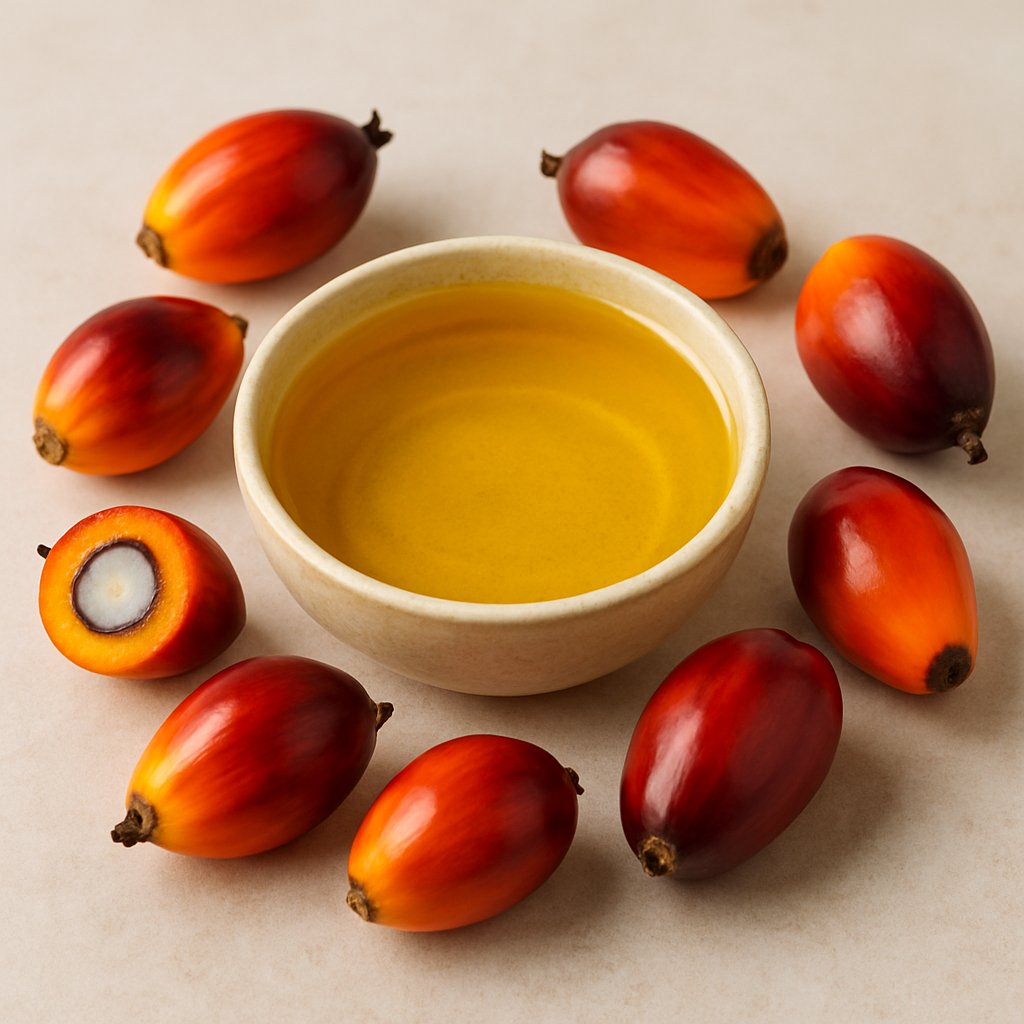
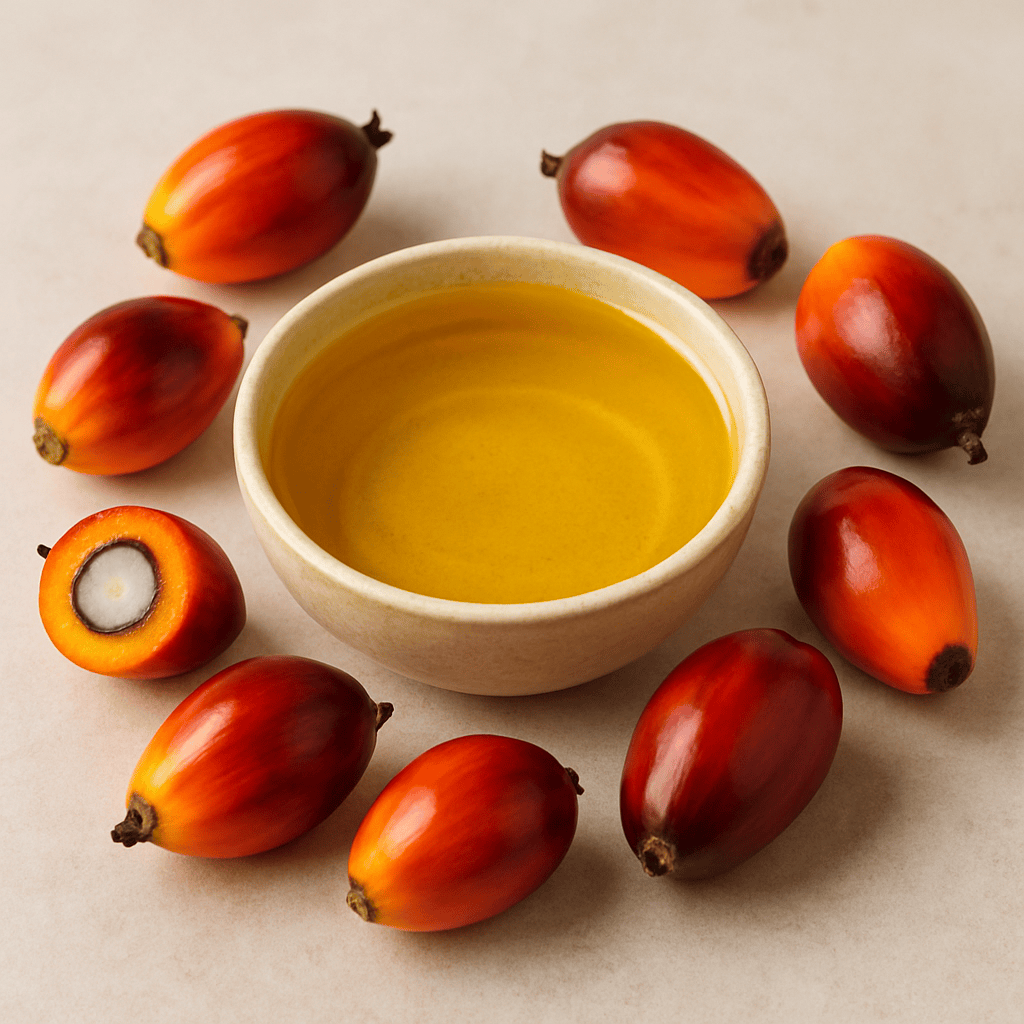
added compressed images

diff --git a/src/components/AboutPalm.jsx b/src/components/AboutPalm.jsx
@@ -3,12 +3,12 @@ import about3 from "../assets/images/about3.jpeg";
 import about1 from "../assets/images/about1.jpeg";
 import about4 from "../assets/images/about4.jpeg";
 import about5 from "../assets/images/about5.jpeg";
-import about6 from "../assets/images/about6.png";
-import about7 from "../assets/images/about7.png";
-import about8 from "../assets/images/about8.png";
-import about9 from "../assets/images/about9.png";
-import about10 from "../assets/images/about10.png";
-import about11 from "../assets/images/about11.png";
+import about6 from "../assets/images/about6.jpeg";
+import about7 from "../assets/images/about7.jpeg";
+import about8 from "../assets/images/about8.jpeg";
+import about9 from "../assets/images/about9.jpeg";
+import about10 from "../assets/images/about10.jpeg";
+import about11 from "../assets/images/about11.jpeg";
 
 const Palm = [
   {

diff --git a/src/components/Products.jsx b/src/components/Products.jsx
@@ -81,7 +81,7 @@ export default function Products() {
               <div className="p-4">
                 <div className="flex justify-between items-center mb-2">
                   <h2 className="text-lg font-semibold">{product.name}</h2>
-                  <span className="text-red-800 font-bold">
+                  <span className="text-green-500 font-bold">
                     {product.price}
                   </span>
                 </div>

diff --git a/src/components/AboutCoconut.jsx b/src/components/AboutCoconut.jsx
@@ -1,7 +1,7 @@
 import React from "react";
-import coconut2 from "../assets/images/coconut2.png";
-import coconut3 from "../assets/images/coconut3.jpg";
-import coconut4 from "../assets/images/coconut4.jpg";
+import coconut2 from "../assets/images/coconut2.1.png";
+import coconut3 from "../assets/images/coconut3.1.jpg";
+import coconut4 from "../assets/images/coconut4.1.jpg";
 
 export default function AboutCoconut() {
   return (

diff --git a/src/components/HeroCarousel.jsx b/src/components/HeroCarousel.jsx
@@ -1,5 +1,5 @@
 import React from 'react'
-import hero4 from "../assets/images/hero4.png"
+import hero4 from "../assets/images/hero4.1.png"
 import hero3 from "../assets/images/hero3.jpeg"
 import { useState, useEffect } from 'react'
 
